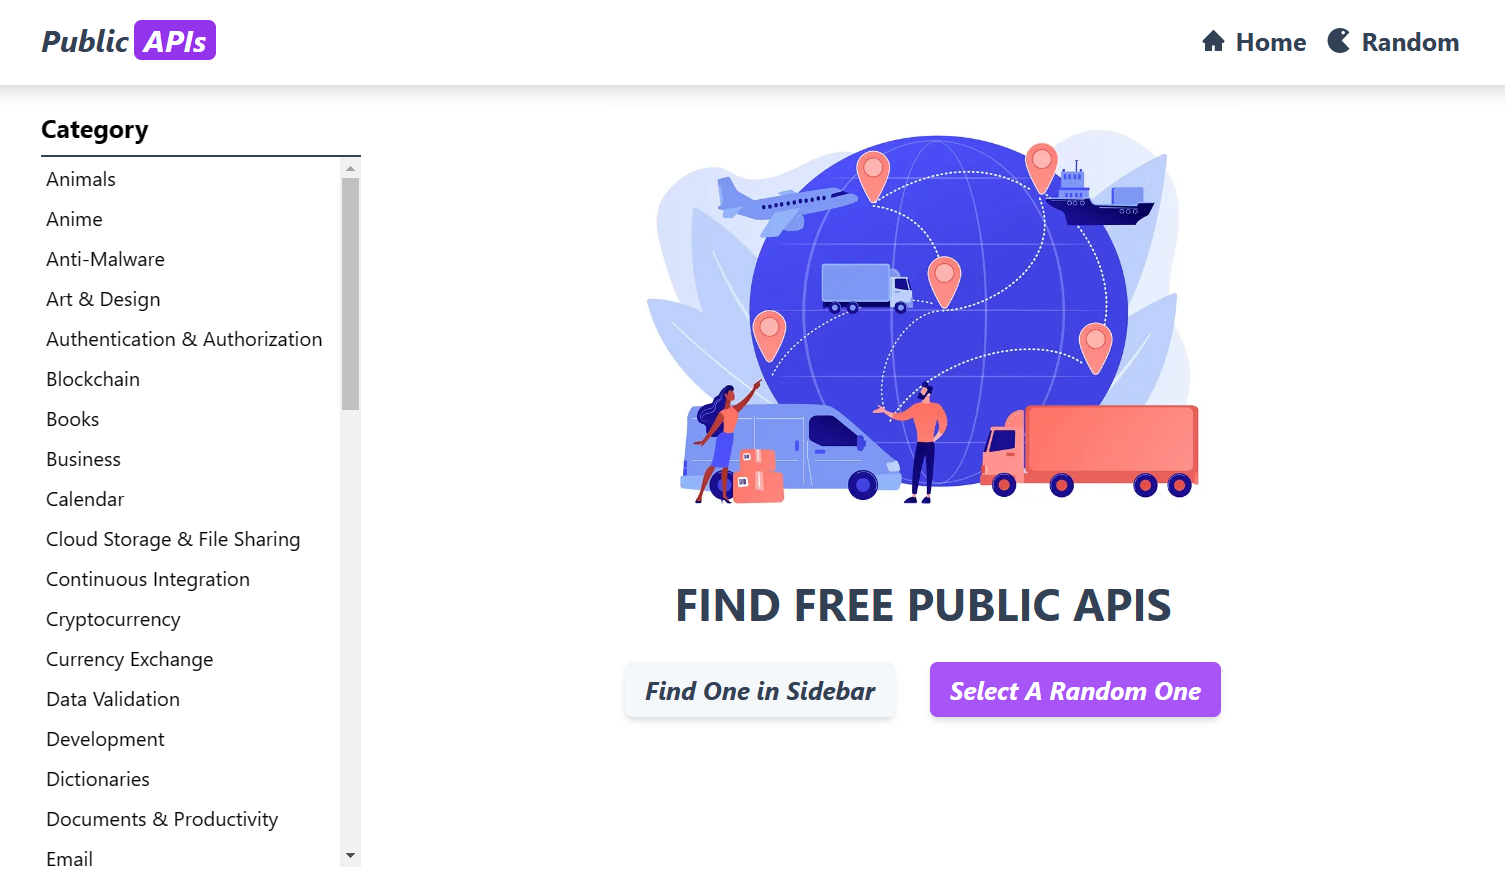
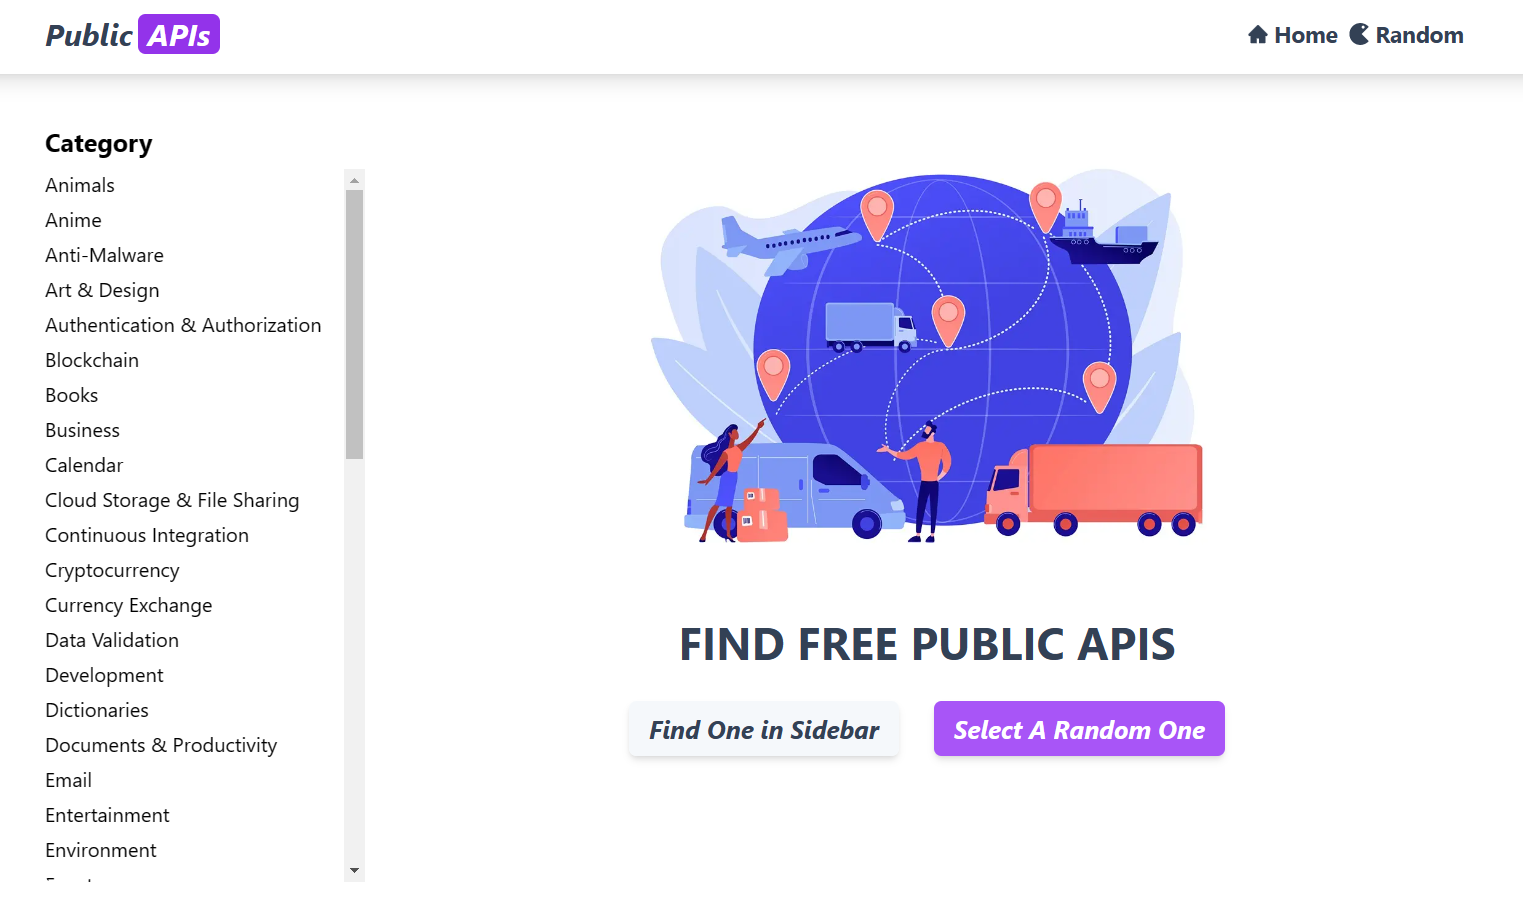
make mobile responsive

diff --git a/components/Footer/Footer.jsx b/components/Footer/Footer.jsx
@@ -1,16 +1,18 @@
 export default function Footer() {
   return (
-    <footer className='w-full py-7 flex gap-3 items-center justify-center bg-slate-100 shadow-xl text-slate-600'>
+    <footer className='w-full py-7 flex flex-col gap-1 items-center justify-center bg-slate-100 shadow-xl text-slate-600'>
       <span>&copy; Copyright {new Date().getFullYear()}</span>
-      <a href='https://github.com/mr-addict' target='_blank' className='underline'>
-        MR-Addict
-      </a>
-      <a href='https://github.com/public-apis/public-apis' target='_blank' className='underline'>
-        Public APIs
-      </a>
-      <a href='https://github.com/mr-addict/public-apis-frontend' target='_blank' className='underline'>
-        Source
-      </a>
+      <div className='flex flex-row gap-2 items-center justify-center'>
+        <a href='https://github.com/mr-addict' target='_blank' className='underline'>
+          MR-Addict
+        </a>
+        <a href='https://github.com/public-apis/public-apis' target='_blank' className='underline'>
+          Public APIs
+        </a>
+        <a href='https://github.com/mr-addict/public-apis-frontend' target='_blank' className='underline'>
+          Source
+        </a>
+      </div>
     </footer>
   );
 }

diff --git a/app/page.jsx b/app/page.jsx
@@ -8,12 +8,12 @@ export default async function Page() {
   const categoriesData = await readJson("categories.json");
   return (
     <div className='w-full h-full flex flex-col items-center justify-start gap-10'>
-      <div className='w-[400px] md:w-[500px] mt-5'>
+      <div className='md:w-[500px] mt-5'>
         <Image src={welcome} alt='welcome' placeholder='blur' className='object-center' />
       </div>
       <div className='flex flex-col items-center justify-center gap-7 whitespace-nowrap'>
-        <h1 className='text-3xl md:text-4xl font-bold text-slate-700'>FIND FREE PUBLIC APIS</h1>
-        <div className='flex flex-row items-center justify-center gap-7'>
+        <h1 className='text-2xl md:text-4xl font-bold text-slate-700'>FIND FREE PUBLIC APIS</h1>
+        <div className='flex flex-col md:flex-row items-center justify-center gap-7'>
           <Link
             href={categoriesData.categories[0]}
             className='bg-slate-100/70 hover:bg-slate-200 duration-500 py-2 px-4 italic shadow-md rounded-md font-bold text-slate-700'

diff --git a/app/random/RandomCard.jsx b/app/random/RandomCard.jsx
@@ -6,7 +6,7 @@ import { useState } from "react";
 import EntryCard from "../../components/EntryCard/EntryCard";
 
 export default function RandomCard() {
-  const [message, setMessage] = useState("");
+  const [message, setMessage] = useState(null);
   const [randomEntity, setRandomEntity] = useState(null);
 
   const handleClick = async () => {
@@ -15,7 +15,7 @@ export default function RandomCard() {
       .then((res) => res.json())
       .then((data) => {
         setRandomEntity(data.entries[0]);
-        setMessage("");
+        setMessage(null);
       })
       .catch((err) => {
         setRandomEntity(null);
@@ -29,7 +29,7 @@ export default function RandomCard() {
         <IoMdRefresh size={40} />
       </button>
       {randomEntity && <EntryCard item={randomEntity} />}
-      {!randomEntity && <p>{message}</p>}
+      {!randomEntity && message && <p>{message}</p>}
     </div>
   );
 }

diff --git a/components/Sidebar/Sidebar.jsx b/components/Sidebar/Sidebar.jsx
@@ -8,7 +8,7 @@ export default async function Sidebar() {
     <div className='flex flex-col gap-2'>
       <div className='sticky top-0 left-0'>
         <h1 className='text-xl font-bold pb-2'>Category</h1>
-        <div className='w-64 whitespace-nowrap overflow-auto max-h-[75vh] border-t-2 border-gray-700 flex flex-col gap-1'>
+        <div className='w-full md:w-64 whitespace-nowrap overflow-auto h-[40vh] md:h-[75vh] flex flex-col gap-1 border-2 md:border-0 border-slate-400 p-2 md:p-0 rounded-md'>
           {categoriesData.categories.map((item, index) => (
             <Link key={index} href={item} className='hover:text-purple-600'>
               {item}

diff --git a/app/random/page.jsx b/app/random/page.jsx
@@ -7,7 +7,7 @@ export default async function Page() {
   const entityLength = entries.length;
   return (
     <div className='w-full h-full flex flex-col items-center justify-start gap-3'>
-      <div className='flex flex-col items-center gap-3 mt-40'>
+      <div className='flex flex-col items-center gap-3 mt-5 md:mt-40'>
         <div className='text-2xl md:text-3xl font-bold text-slate-700 flex flex-row items-center gap-3'>
           <span>Total</span>
           <h1 className='italic text-3xl px-2 bg-purple-600 text-white rounded-md'>{entityLength}</h1>

diff --git a/components/Navbar/Navbar.jsx b/components/Navbar/Navbar.jsx
@@ -20,7 +20,7 @@ export default function Navbar() {
         <h1 className='text-slate-700'>Public</h1>
         <h1 className='px-2 bg-purple-600 rounded-md text-white'>APIs</h1>
       </Link>
-      <div className='flex flex-row gap-4 text-lg'>
+      <div className='flex flex-row gap-2 text-lg'>
         {menuData.map((item, index) => (
           <MenuCard key={index} item={item} />
         ))}

diff --git a/app/layout.jsx b/app/layout.jsx
@@ -7,7 +7,7 @@ export default function RootLayout({ children }) {
       <head />
       <body>
         <Navbar />
-        <div className='flex flex-row mx-5 md:mx-48 my-10 gap-5'>
+        <div className='flex flex-col md:flex-row mx-5 md:mx-48 my-5 md:my-10 gap-5'>
           <Sidebar />
           {children}
         </div>
